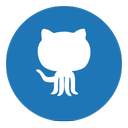
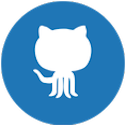
add social media globs to the bottom of the page with links

Changed region(s): [[0.0, 0.0, 1.0, 1.0], [0.2381, 0.192, 0.7381, 0.792]]

diff --git a/app/assets/stylesheets/pages.css.scss b/app/assets/stylesheets/pages.css.scss
@@ -9,12 +9,20 @@ button, form, a  {
   border: 0;
   font: inherit;
   color: inherit;
-  display: block;
   font-family: lucida;
   text-decoration: none;
 }
 
+.group:after {
+    content: "";
+    display: block;
+    clear: both;
+}
 
+img {
+  display: block;
+
+}
 
 html, body {
   height: 100%;
@@ -135,17 +143,14 @@ p {
   background: #fa0;
 }
 
-.list-item:nth-child(2) > div {
-  height: 20px;
-  width: 32px;
-}
+
 .list-item:nth-child(2):hover > img {
-  background: #8aa;
+  background: #880;
 }
 
 
 .list-item:nth-child(3):hover > img {
-  background: #880;
+  background: #8aa;
 }
 
 #buffer {
@@ -214,7 +219,7 @@ main {
 #intro > p {
   // border-top: 1px solid #aaa;
   margin-top: 40px;
-  margin-bottom: 40px;
+  margin-bottom: 20px;
   padding-bottom: 40px;
 }
 
@@ -293,8 +298,41 @@ div.project a:hover  {
 
 }
 
+#contact > div#large-icon-contact {
+  display: block;
+  padding: 80px ;
+}
+
+a.large-icon {
+  display: block;
+  padding: 5px;
+  width: 127px;
+  height: 127px;
+  // margin: 15px;
+  transition: all 0.2s;
+  border-radius: 100px;
+}
+
+a.large-icon:hover{
+  background: #e45
+}
+
+a.large-icon:nth-child(1) {
+  float: left;
+  margin-left: 10px;
+}
+
+a.large-icon:nth-child(2) {
+  float: right;
+  margin-right: 10px;
+}
+
+a.large-icon:nth-child(3) {
+  margin: auto;
+
+}
+
 form {
-  // border-top: 1px solid #aaa;
   margin-top: 40px;
 }
 
